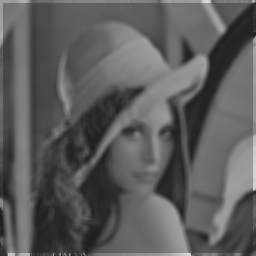
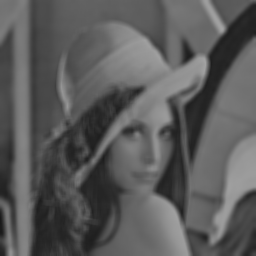
feat(mvk_filter) box-filter with border-padding

diff --git a/src/modules/filter/src/box_filter.cpp b/src/modules/filter/src/box_filter.cpp
@@ -17,8 +17,12 @@ namespace mvk
 {
     int BoxFilter(const Image& src, Image& dst, const size_t kernel_size, const BORDER_TYPE& border_type)
     {
-        //1. Todo: 边界扩充
-        auto src_padding = src;
+        size_t half_kernel = kernel_size / 2;
+        size_t border_size = half_kernel;
+        size_t window_size = 2 * half_kernel + 1;
+        size_t window_area = window_size * window_size;
+        //1. 边界扩充
+        auto src_padding = src.CopyWithBorder(border_size);
 
         //2. 计算积分图
         Matrix<uint64_t> integral;
@@ -29,32 +33,32 @@ namespace mvk
 
         //3. 计算滤波值
         dst = src.Copy();
-        size_t half_kernel = kernel_size / 2;
-        size_t window_size = 2 * half_kernel + 1;
-        size_t window_area = window_size * window_size;
 
         if(half_kernel > 0)
         {
             if(auto channels = src.GetChannel(); channels == 1)
             {
-                for(size_t i = half_kernel; i < dst.GetHeight() - half_kernel; i++) //row
+                for(size_t i = 0; i < dst.GetHeight(); i++) //row
                 {
-                    for(size_t j = half_kernel ; j < dst.GetWidth() - half_kernel; j++)//col
+                    for(size_t j = 0 ; j < dst.GetWidth(); j++)//col
                     {
                         //--------------
                         // |  A  |  B |
                         //   ----p ----
                         // |  C  |  D |
                         // Sum_abcd = Sat_d - Sat_b - Sat_c + Sat_a
-                        auto sum = integral(i + half_kernel, j + half_kernel) - integral(i - half_kernel, j + half_kernel) - integral(i + half_kernel, j - half_kernel) + integral(i - half_kernel, j - half_kernel);
+                        auto sum = integral(border_size + i + half_kernel, border_size + j + half_kernel) 
+                                 - integral(border_size + i - half_kernel, border_size + j + half_kernel) 
+                                 - integral(border_size + i + half_kernel, border_size + j - half_kernel) 
+                                 + integral(border_size + i - half_kernel, border_size + j - half_kernel);
                         dst.GetPixel(i, j)[0] = static_cast<uint8_t>(std::round(1.0 * sum / window_area));
                     }
                 }
             }else
             {
-                for(size_t i = half_kernel; i < dst.GetHeight() - half_kernel; i++) //row
+                for(size_t i = 0; i < dst.GetHeight(); i++) //row
                 {
-                    for(size_t j = half_kernel ; j < dst.GetWidth() - half_kernel; j++)//col
+                    for(size_t j = 0; j < dst.GetWidth(); j++)//col
                     {
                         for(size_t c = 0; c < channels; c++)
                         {
@@ -63,10 +67,10 @@ namespace mvk
                             //   ----p ----
                             // |  C  |  D |
                             // Sum_abcd = Sat_d - Sat_b - Sat_c + Sat_a
-                            auto sum = integral(i + half_kernel, (j + half_kernel) * channels + c) 
-                                     - integral(i - half_kernel, (j + half_kernel) * channels + c) 
-                                     - integral(i + half_kernel, (j - half_kernel) * channels + c) 
-                                     + integral(i - half_kernel, (j - half_kernel) * channels + c);
+                            auto sum = integral(border_size + i + half_kernel, (border_size + j + half_kernel) * channels + c) 
+                                     - integral(border_size + i - half_kernel, (border_size + j + half_kernel) * channels + c) 
+                                     - integral(border_size + i + half_kernel, (border_size + j - half_kernel) * channels + c) 
+                                     + integral(border_size + i - half_kernel, (border_size + j - half_kernel) * channels + c);
                             dst.GetPixel(i, j)[c] = static_cast<uint8_t>(std::round(1.0 * sum / window_area));
                         }
                     }
